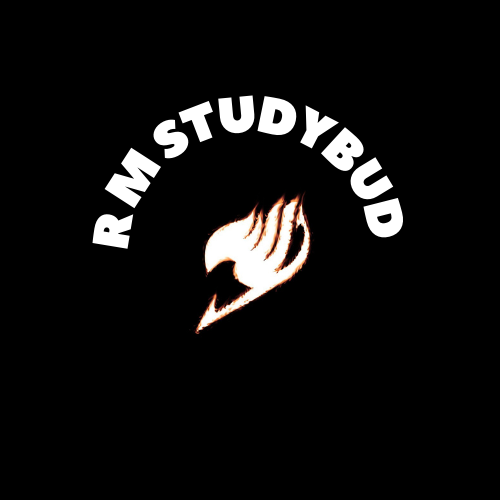
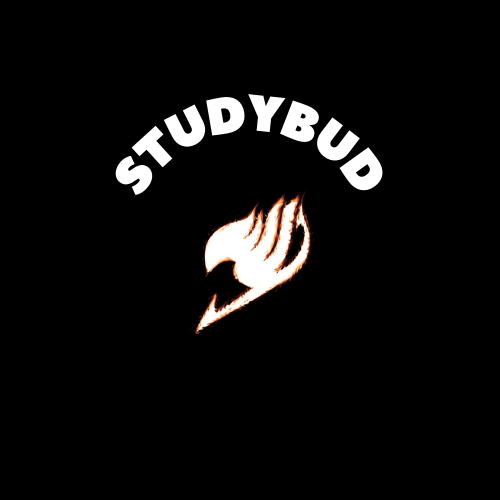
static files changes

Changed region(s): [[0.18, 0.18, 0.81, 0.51]]

diff --git a/templates/navbar.html b/templates/navbar.html
@@ -4,7 +4,7 @@
   <header class="header">
     <div class="container container--narrow">
       <a href="{% url 'profiles' %}" class="header__logo">
-        <img src="{% static 'images/R M Studybud.png' %}" alt="Studybud Logo" />
+        <img src="https://res.cloudinary.com/dzgo6p5ob/image/upload/v1709112675/Studybud.png" alt="Studybud Logo" />
       </a>
       <nav class="header__nav">
         <input type="checkbox" id="responsive-menu" />

diff --git a/templates/main.html b/templates/main.html
@@ -16,7 +16,7 @@
     <!-- R M Studybud UI -->
     <link rel="stylesheet" href="{% static 'styles/app.css' %}" />
 
-    <title>R M Studybud</title>
+    <title>Studybud</title>
 </head>
 <body>
     {% include 'navbar.html' %}
